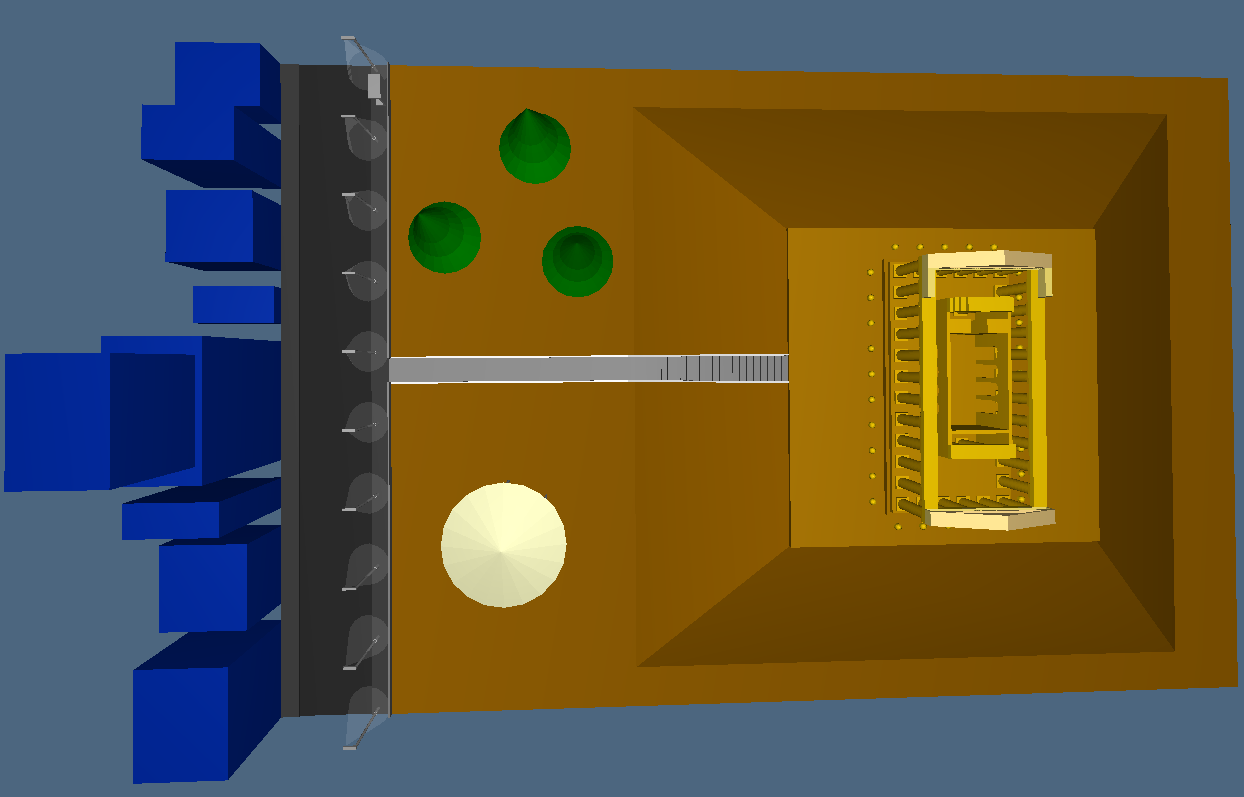
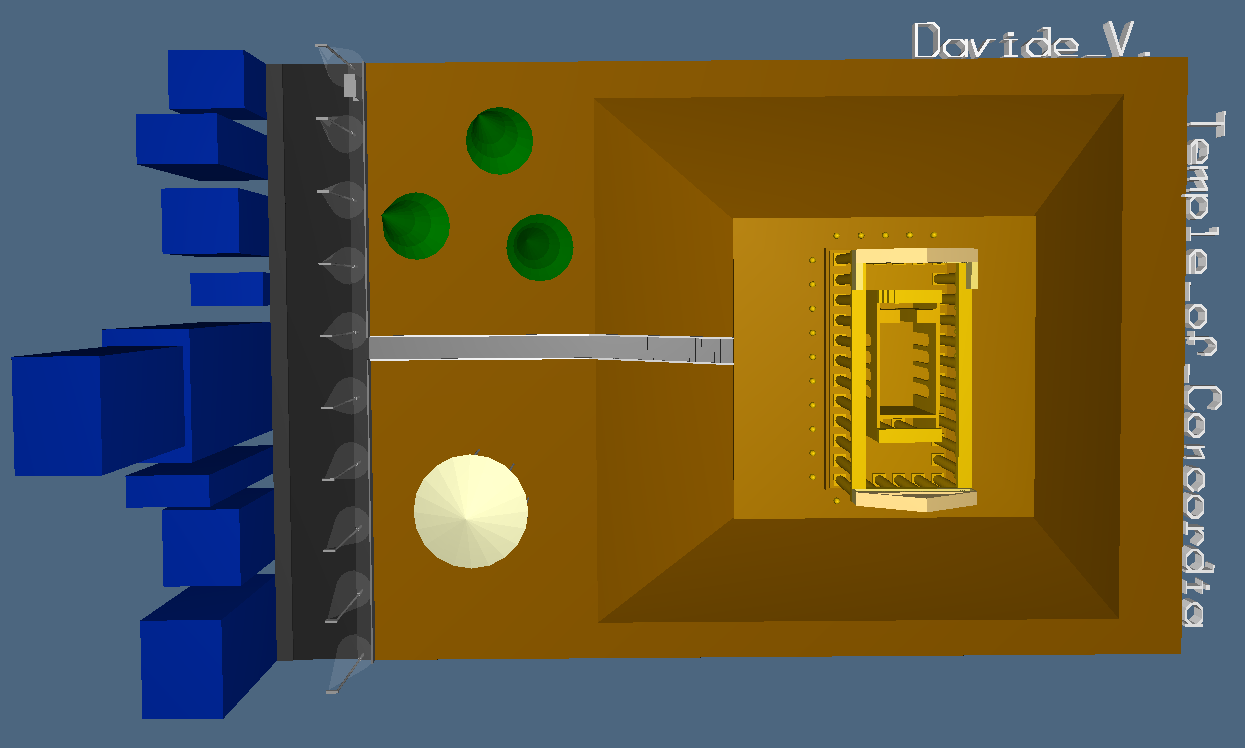
hw2 completed

Changed region(s): [[0.0, 0.0307, 1.0, 0.984]]

diff --git a/2014-04-11/python/exercise4.py b/2014-04-11/python/exercise4.py
@@ -1,7 +1,6 @@
 from pyplasm import *
 from larcc import *
 from myfont import *
-from random import random
 
 #Homework 1 - exercise4
 #Author: Davide Violante
@@ -359,7 +358,13 @@ kiosk = STRUCT([kroof,ksupports,kchairs])
 
 kiosk = T([1,2])([50,20])(kiosk)
 
-total = STRUCT([solid_model_3D,details,pathbkg,trees,kiosk])
+#big text signature: name of model and name of author
+text = PROD([OFFSET([0.5,0.25])(TEXT("Temple_of_Concordia")),Q(2)])
+text = T([1,2])([-20,150])(text)
+text2 = PROD([OFFSET([0.5,0.25])(TEXT("Davide_V.")),Q(2)])
+text2 = T([1,2])([-30,100])(R([1,2])(PI/2)(text2))
+
+total = STRUCT([solid_model_3D,details,pathbkg,trees,kiosk,text,text2])
 VIEW(total)
 #VIEW(SKELETON(1)(total))
 
